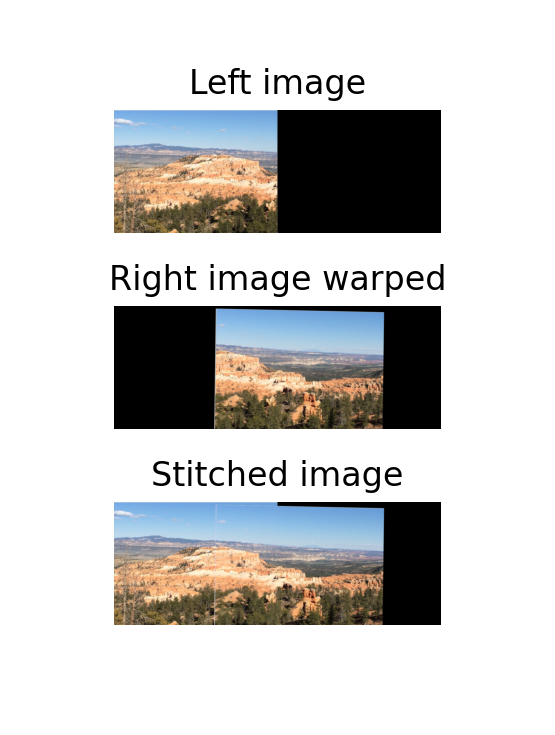
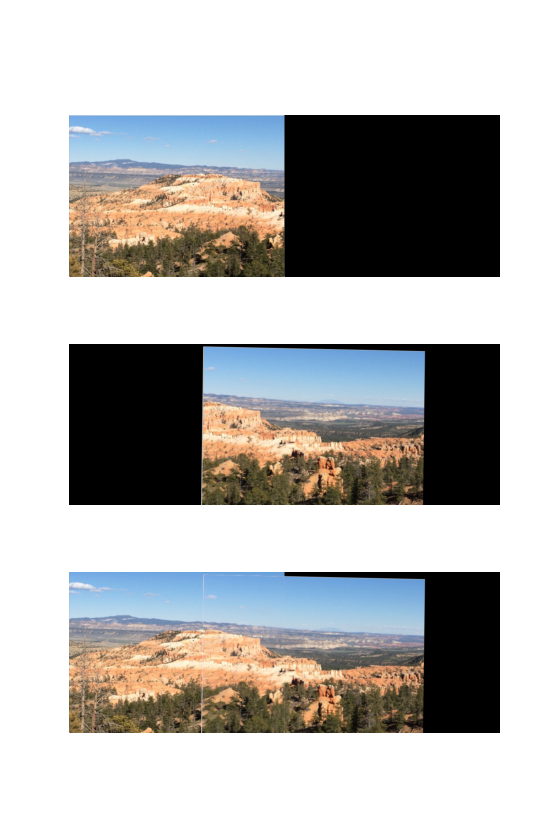
Modified: stitching operation

Changed region(s): [[0.1225, 0.3592, 0.9189, 0.898], [0.1225, 0.0898, 0.9189, 0.3293]]

diff --git a/visualizer.py b/visualizer.py
@@ -30,9 +30,9 @@ class Visualizer:
         fig.subplots_adjust(wspace=0.2, hspace=0.1, top=0.95, bottom=0.05, left=0.05, right=0.95)
 
         ax1.imshow(self.img1_gray, cmap='gray')
-        ax1.plot(self.img1_kpts[:, 0], self.img1_kpts[:, 1], color='cyan', marker='o', linestyle='None', markersize=2)
+        ax1.plot(self.img1_kpts[:, 0], self.img1_kpts[:, 1], color='red', marker='o', linestyle='None', markersize=2)
         ax2.imshow(self.img2_gray, cmap='gray')
-        ax2.plot(self.img2_kpts[:, 0], self.img2_kpts[:, 1], color='cyan', marker='o', linestyle='None', markersize=2)
+        ax2.plot(self.img2_kpts[:, 0], self.img2_kpts[:, 1], color='red', marker='o', linestyle='None', markersize=2)
         # Plot matchings
         for m_idxs in self.matching_kpt_pair_indices:
             color = tuple(np.random.random((3,)))
@@ -48,28 +48,42 @@ class Visualizer:
         plt.show()
 
 
-    def stitch_and_display(self, img2_warped):
-        fig, [ax1,ax2,ax3] = plt.subplots(3,1)
-        fig.set_size_inches(0.15*18.5, 0.35*10.5)
-        fig.set_dpi(200)
-        fig.subplots_adjust(wspace=0.2, hspace=0.6, top=0.85, bottom=0.15, left=0.05, right=0.95)
+    def stitch_and_display(self, img2_warped, display_all=False):
+        img1_expanded = np.zeros( (self.img1_rgb.shape[0], self.img1_rgb.shape[1]+self.img2_rgb.shape[1], 3) ).astype(np.uint8)
+        img1_expanded[:, :self.img1_rgb.shape[1], :] = self.img1_rgb[:,:,:]
 
-        stitched_image = np.zeros( (self.img1_rgb.shape[0], self.img1_rgb.shape[1]+self.img2_rgb.shape[1], 3) ).astype(np.uint8)
-        stitched_image[:, :self.img1_rgb.shape[1], :] = self.img1_rgb[:,:,:]
+        stitched_image = img1_expanded.copy()
 
-        ax1.imshow(stitched_image)
-        ax2.imshow(img2_warped)
+        #stitched_image = np.maximum(stitched_image, img2_warped)
 
-        stitched_image = np.maximum(stitched_image, img2_warped)
+        img2_warped_gray = cv2.cvtColor(img2_warped, cv2.COLOR_RGB2GRAY)
+        non_zeros = np.argwhere(img2_warped_gray > 0)
+        stitched_image[non_zeros[:,0], non_zeros[:,1], :] = img2_warped[non_zeros[:,0],non_zeros[:,1],:]
 
-        ax3.imshow(stitched_image)
+        if display_all:
+            fig, [ax1,ax2,ax3] = plt.subplots(3,1)
+            fig.set_size_inches(0.15*18.5, 0.4*10.5)
+            fig.set_dpi(200)
+            #fig.subplots_adjust(hspace=0.3, top=0.85, bottom=0.15)
 
-        ax1.axis('off')
-        ax1.set_title("Left image")
-        ax2.axis('off')
-        ax2.set_title("Right image warped")
-        ax3.axis('off')
-        ax3.set_title("Stitched image")
-        if self.save_figs:
-            fig.savefig("./Results/Stitching_result.png")
-        plt.show()
+            ax1.imshow(img1_expanded)
+            ax2.imshow(img2_warped)
+            ax3.imshow(stitched_image)
+
+            ax1.axis('off')
+            #ax1.set_title("Left image")
+            ax2.axis('off')
+            #ax2.set_title("Right image warped")
+            ax3.axis('off')
+            #ax3.set_title("Stitched image")
+            if self.save_figs:
+                fig.savefig("./Results/Stitching_result.png")
+            plt.show()
+
+        else:
+            fig, ax = plt.subplots()
+            fig.set_size_inches(0.5*18.5, 0.4*10.5)
+            fig.set_dpi(200)
+            ax.imshow(stitched_image)
+            ax.axis('off')
+            plt.show()

diff --git a/utils.py b/utils.py
@@ -3,30 +3,6 @@ import cv2
 import skimage.feature
 import matplotlib.pyplot as plt
 
-def display_images(img1, img2):
-    fig, [ax1, ax2] = plt.subplots(1,2)
-    ax1.imshow(img1)
-    ax2.imshow(img2)
-    plt.show()
-
-def display_image_and_keypts(img1, img2, img1_kpts, img2_kpts, matching_kpt_pair_indices):
-    img1_kpts = np.array([kp.pt for kp in img1_kpts])
-    img2_kpts = np.array([kp.pt for kp in img2_kpts])
-
-    fig, [ax1, ax2] = plt.subplots(1,2)
-    ax1.imshow(img1, cmap='gray')
-    ax1.plot(img1_kpts[:, 0], img1_kpts[:, 1], color='cyan', marker='o', linestyle='None', markersize=2)
-    ax2.imshow(img2, cmap='gray')
-    ax2.plot(img2_kpts[:, 0], img2_kpts[:, 1], color='cyan', marker='o', linestyle='None', markersize=2)
-
-    # Plot matchings
-    for m_idxs in matching_kpt_pair_indices:
-        color = tuple(np.random.random((3,)))
-        ax1.plot(img1_kpts[m_idxs[0], 0], img1_kpts[m_idxs[0], 1], color=color, marker='*', linestyle='None', markersize=5)
-        ax2.plot(img2_kpts[m_idxs[1], 0], img2_kpts[m_idxs[1], 1], color=color, marker='*', linestyle='None', markersize=5)
-
-    plt.show()
-
 ###############################################################################
 # Key point extraction and matching stuff
 ###############################################################################

diff --git a/main.py b/main.py
@@ -65,7 +65,7 @@ matching_kpt_pair_indices = utils.get_matchings(euc_distance_matrix,
 
 # Visualize keypoints and matchings
 vis.set_matches(matching_kpt_pair_indices)
-#vis.show_keypoints(best_matches=True)
+vis.show_keypoints(best_matches=True)
 
 
 # Perform RANSAC to obtain the affine matrix
